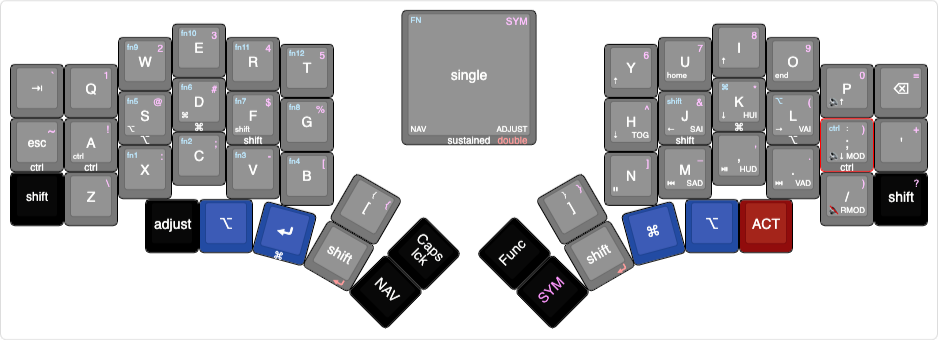
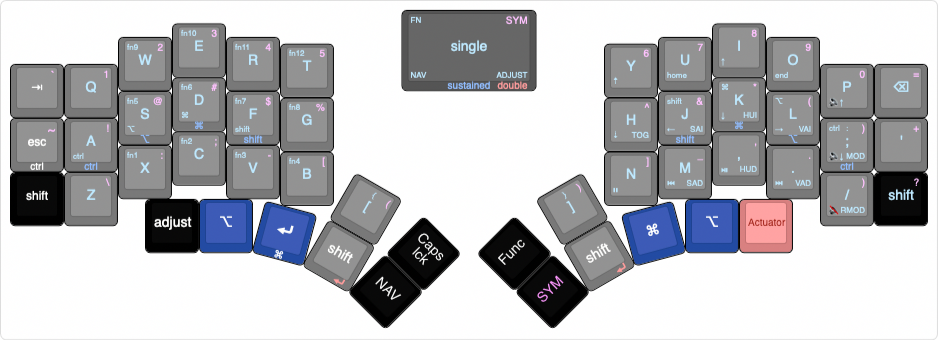
parentheses on symbol layer above square brackets

diff --git a/keyboards/splitkb/kyria/keymaps/kolkman/keymap.c b/keyboards/splitkb/kyria/keymaps/kolkman/keymap.c
@@ -178,7 +178,7 @@ tap_dance_action_t tap_dance_actions[] = {
           [_SYM] = LAYOUT(
           KC_GRV ,   KC_1 ,   KC_2 ,   KC_3 ,   KC_4 ,   KC_5 ,                                       KC_6 ,   KC_7 ,   KC_8 ,   KC_9 ,   KC_0 , KC_EQL ,
           KC_TILD , KC_EXLM,  KC_AT , KC_HASH,  KC_DLR, KC_PERC,                                     KC_CIRC, KC_AMPR, KC_ASTR, KC_LPRN, KC_RPRN, KC_PLUS,
-          KC_PIPE , KC_BSLS, KC_COLN, KC_SCLN, KC_MINS, KC_LBRC, KC_LCBR, _______, _______, KC_RCBR, KC_RBRC, KC_UNDS, KC_COMM,  KC_DOT, KC_SLSH, KC_QUES,
+          KC_PIPE , KC_BSLS, KC_COLN, KC_SCLN, KC_MINS, KC_LBRC, KC_LPRN, _______, _______, KC_RPRN, KC_RBRC, KC_UNDS, KC_COMM,  KC_DOT, KC_SLSH, KC_QUES,
                                       _______, _______, _______, _______, _______, _______, _______, _______, _______, _______
           ),
 

diff --git a/keyboards/splitkb/kyria/keymaps/kolkman/readme.md b/keyboards/splitkb/kyria/keymaps/kolkman/readme.md
@@ -6,6 +6,7 @@
 *   Simultaneous space press activates CAPS_WORDS.
 *   Control Option Command Shift - [Modrow](https://precondition.github.io/home-row-mods) (Only on the QWERTY keyboard)
 *   Removed  CTRL on hold from the quote key.
+*   Parentheses on the square brackets symbol layer
 *   Option Command order on the thumb row swapped.
 *   Power led [on for Caps lock](https://docs.splitkb.com/hc/en-us/articles/5799711553820-Power-LED).
 *   RGB lightlayers, see the [feature_rgblight.md](https://github.com/qmk/qmk_firmware/blob/master/docs/feature_rgblight.md) with command option shift and control providing light effects.
